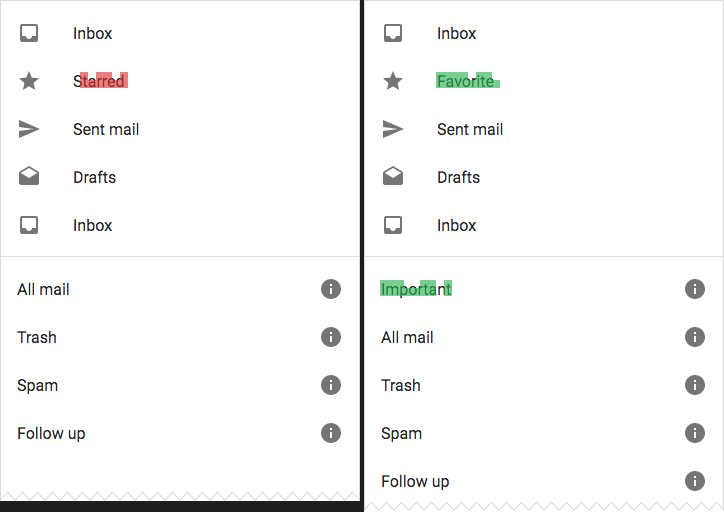
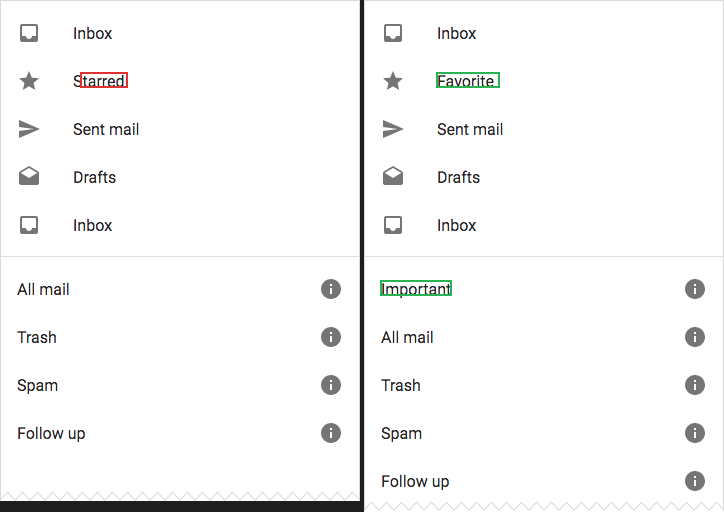
refactor(render): per-region outline / filled highlights
Replaces the per-block translucent tile overlay with clean per-region
rectangles. Two styles are exposed:

- Outline (default): just the bounding-box stroke; content stays
  readable for review (--style outline --stroke 2).
- Filled: solid color over the whole region; high visibility, hides
  content (--style filled).

The renderer now clusters via the same `unmatched_regions(merge_gap,
min_blocks)` the JSON output uses, so the visual rectangles and the
machine-readable rectangles are always in sync. RenderOptions gained
`style`, `merge_gap`, and `min_blocks` fields; the old `overlay_alpha`
was removed. The CLI's now-redundant `--regions` flag (which double-
stroked an outline on top of the tile overlay) is gone — outlines are
the default.

Sample images regenerated; README updated to show both styles side
by side.

Changed region(s): [[0.5166, 0.5312, 0.6381, 0.5938], [0.6077, 0.125, 0.6989, 0.1875], [0.0912, 0.125, 0.1823, 0.1875]]

diff --git a/src/render.rs b/src/render.rs
@@ -100,10 +100,32 @@ pub fn draw_regions(img: &mut RgbaImage, regions: &[Region], color: [u8; 4]) {
     }
 }
 
+/// How unmatched regions are highlighted on top of the reference / target.
+#[derive(Debug, Clone, Copy, PartialEq, Eq)]
+pub enum HighlightStyle {
+    /// Draw only the bounding-box outline of each region (`stroke` pixels
+    /// wide). Underlying content stays visible — recommended for review
+    /// workflows.
+    Outline { stroke: u32 },
+    /// Fill the region's bounding box with the highlight color (no
+    /// transparency). High visibility but obscures content.
+    Filled,
+}
+
+impl Default for HighlightStyle {
+    fn default() -> Self {
+        HighlightStyle::Outline { stroke: 2 }
+    }
+}
+
 #[derive(Debug, Clone)]
 pub struct RenderOptions {
-    /// Alpha (0..=255) used when blending the red overlay onto unmatched blocks.
-    pub overlay_alpha: u8,
+    /// How to highlight unmatched regions.
+    pub style: HighlightStyle,
+    /// Passed to `BlockMatchResult::unmatched_regions` when clustering.
+    pub merge_gap: u32,
+    /// Passed to `BlockMatchResult::unmatched_regions` when clustering.
+    pub min_blocks: u32,
     /// If true, draw a small arrow on each block showing its motion vector.
     pub draw_vectors: bool,
 }
@@ -111,15 +133,17 @@ pub struct RenderOptions {
 impl Default for RenderOptions {
     fn default() -> Self {
         Self {
-            overlay_alpha: 160,
+            style: HighlightStyle::default(),
+            merge_gap: 1,
+            min_blocks: 1,
             draw_vectors: false,
         }
     }
 }
 
-/// Renders a diff visualization by overlaying `color` on blocks that could
-/// not be matched (i.e. genuine content differences after accounting for X/Y
-/// shifts).
+/// Renders a diff visualization by clustering unmatched blocks into
+/// regions and drawing each region's bounding box in `color` according to
+/// `opts.style`.
 pub fn render_diff(
     base: &RgbaImage,
     result: &BlockMatchResult,
@@ -127,45 +151,61 @@ pub fn render_diff(
     opts: &RenderOptions,
 ) -> RgbaImage {
     let mut out = base.clone();
-    overlay_unmatched(&mut out, result, color, opts.overlay_alpha);
+    let regions = result.unmatched_regions(opts.merge_gap, opts.min_blocks);
+    paint_regions(&mut out, &regions, color, opts.style);
     if opts.draw_vectors {
         draw_vectors(&mut out, result);
     }
     out
 }
 
-fn overlay_unmatched(
+fn paint_regions(
     img: &mut RgbaImage,
-    result: &BlockMatchResult,
+    regions: &[Region],
     color: [u8; 3],
-    alpha: u8,
+    style: HighlightStyle,
 ) {
-    let b = result.block_size;
-    let a = alpha as u16;
-    let inv = 255u16 - a;
     let (w, h) = (img.width(), img.height());
-    for by in 0..result.rows {
-        for bx in 0..result.cols {
-            let mv = result.get(bx, by);
-            if mv.matched {
-                continue;
-            }
-            let x0 = bx * b;
-            let y0 = by * b;
-            for j in 0..b {
-                let y = y0 + j;
-                if y >= h {
-                    break;
-                }
-                for i in 0..b {
-                    let x = x0 + i;
-                    if x >= w {
-                        break;
+    let c = Rgba([color[0], color[1], color[2], 255]);
+    for r in regions {
+        let x1 = r.x.min(w);
+        let y1 = r.y.min(h);
+        let x2 = (r.x + r.width).min(w);
+        let y2 = (r.y + r.height).min(h);
+        if x2 <= x1 || y2 <= y1 {
+            continue;
+        }
+        match style {
+            HighlightStyle::Filled => {
+                for y in y1..y2 {
+                    for x in x1..x2 {
+                        img.put_pixel(x, y, c);
                     }
-                    let px = img.get_pixel_mut(x, y);
-                    px.0[0] = ((color[0] as u16 * a + px.0[0] as u16 * inv) / 255) as u8;
-                    px.0[1] = ((color[1] as u16 * a + px.0[1] as u16 * inv) / 255) as u8;
-                    px.0[2] = ((color[2] as u16 * a + px.0[2] as u16 * inv) / 255) as u8;
+                }
+            }
+            HighlightStyle::Outline { stroke } => {
+                let s = stroke.max(1);
+                // Top + bottom bands.
+                for y in y1..(y1 + s).min(y2) {
+                    for x in x1..x2 {
+                        img.put_pixel(x, y, c);
+                    }
+                }
+                for y in y2.saturating_sub(s).max(y1)..y2 {
+                    for x in x1..x2 {
+                        img.put_pixel(x, y, c);
+                    }
+                }
+                // Left + right bands (skip rows already drawn above).
+                let inner_y1 = (y1 + s).min(y2);
+                let inner_y2 = y2.saturating_sub(s).max(inner_y1);
+                for y in inner_y1..inner_y2 {
+                    for x in x1..(x1 + s).min(x2) {
+                        img.put_pixel(x, y, c);
+                    }
+                    for x in x2.saturating_sub(s).max(x1)..x2 {
+                        img.put_pixel(x, y, c);
+                    }
                 }
             }
         }
@@ -173,19 +213,22 @@ fn overlay_unmatched(
 }
 
 /// Renders a side-by-side composite of the bidirectional diff: the reference
-/// on the left with "removed" content overlaid in red, and the target on the
-/// right with "added" content overlaid in green. A thin separator is drawn
-/// between the two panels.
+/// on the left with "removed" regions in red, and the target on the right
+/// with "added" regions in green, each drawn in the configured highlight
+/// style. A thin separator is drawn between the two panels.
 pub fn render_bidirectional(
     reference: &RgbaImage,
     target: &RgbaImage,
     diff: &BidirectionalDiff,
     opts: &RenderOptions,
 ) -> RgbaImage {
+    let removed = diff.forward.unmatched_regions(opts.merge_gap, opts.min_blocks);
+    let added = diff.reverse.unmatched_regions(opts.merge_gap, opts.min_blocks);
+
     let mut left = reference.clone();
     let mut right = target.clone();
-    overlay_unmatched(&mut left, &diff.forward, [220, 50, 50], opts.overlay_alpha);
-    overlay_unmatched(&mut right, &diff.reverse, [40, 180, 80], opts.overlay_alpha);
+    paint_regions(&mut left, &removed, [220, 50, 50], opts.style);
+    paint_regions(&mut right, &added, [40, 180, 80], opts.style);
     if opts.draw_vectors {
         draw_vectors(&mut left, &diff.forward);
         draw_vectors(&mut right, &diff.reverse);

diff --git a/src/bin/img-block-match.rs b/src/bin/img-block-match.rs
@@ -1,7 +1,7 @@
 use clap::{Parser, ValueEnum};
 use img_block_match::{
-    diff, diff_bidirectional, draw_regions, render_bidirectional, render_diff, render_heatmap,
-    BlockMatchOptions, Region, RenderOptions, SearchMode,
+    diff, diff_bidirectional, render_bidirectional, render_diff, render_heatmap, BlockMatchOptions,
+    HighlightStyle, Region, RenderOptions, SearchMode,
 };
 use std::time::Instant;
 
@@ -12,6 +12,14 @@ enum CliMode {
     /// Hierarchical (coarse scan + logarithmic refinement) — orders of
     /// magnitude faster for wide search ranges.
     Fast,
+}
+
+#[derive(Copy, Clone, Debug, ValueEnum)]
+enum CliStyle {
+    /// Just the bounding-box outline; content stays readable.
+    Outline,
+    /// Solid fill over the entire region.
+    Filled,
 }
 
 impl From<CliMode> for SearchMode {
@@ -57,10 +65,12 @@ struct Args {
     /// Search strategy within the window.
     #[arg(long, value_enum, default_value_t = CliMode::Full)]
     mode: CliMode,
-    /// Draw bounding boxes around clustered unmatched regions on top of the
-    /// diff image.
-    #[arg(long, default_value_t = false)]
-    regions: bool,
+    /// Highlight style for unmatched regions.
+    #[arg(long, value_enum, default_value_t = CliStyle::Outline)]
+    style: CliStyle,
+    /// Outline stroke width in pixels (ignored when --style=filled).
+    #[arg(long, default_value_t = 2)]
+    stroke: u32,
     /// When merging adjacent unmatched blocks into regions, allow this many
     /// matched blocks of gap between them.
     #[arg(long, default_value_t = 1)]
@@ -122,8 +132,13 @@ fn main() -> Result<(), Box<dyn std::error::Error>> {
         compute_confidence: args.confidence,
     };
     let render_opts = RenderOptions {
+        style: match args.style {
+            CliStyle::Outline => HighlightStyle::Outline { stroke: args.stroke },
+            CliStyle::Filled => HighlightStyle::Filled,
+        },
+        merge_gap: args.merge_gap,
+        min_blocks: args.min_blocks,
         draw_vectors: args.draw_vectors,
-        ..Default::default()
     };
 
     let t = Instant::now();
@@ -155,10 +170,7 @@ fn main() -> Result<(), Box<dyn std::error::Error>> {
         );
         let regions = result.unmatched_regions(args.merge_gap, args.min_blocks);
         eprintln!("regions: {}", regions.len());
-        let mut out = render_diff(&reference, &result, [220, 50, 50], &render_opts);
-        if args.regions {
-            draw_regions(&mut out, &regions, [200, 0, 0, 255]);
-        }
+        let out = render_diff(&reference, &result, [220, 50, 50], &render_opts);
         out.save(&args.output)?;
         if args.json {
             println!("{{\n{}\n}}", regions_to_json("changed", &regions));
@@ -188,17 +200,7 @@ fn main() -> Result<(), Box<dyn std::error::Error>> {
             added.len(),
         );
         eprintln!("elapsed: {:?}", elapsed);
-        let mut out = render_bidirectional(&reference, &target, &bd, &render_opts);
-        if args.regions {
-            // The right panel is offset by left.width() + 4 (gap).
-            let mut right_regions = added.clone();
-            let x_off = reference.width() + 4;
-            for r in &mut right_regions {
-                r.x += x_off;
-            }
-            draw_regions(&mut out, &removed, [200, 0, 0, 255]);
-            draw_regions(&mut out, &right_regions, [0, 160, 60, 255]);
-        }
+        let out = render_bidirectional(&reference, &target, &bd, &render_opts);
         out.save(&args.output)?;
         if args.json {
             println!(

diff --git a/src/lib.rs b/src/lib.rs
@@ -25,5 +25,6 @@ pub use block_match::{
 };
 pub use pyramid::diff_pyramid;
 pub use render::{
-    draw_regions, render_bidirectional, render_diff, render_heatmap, RenderOptions,
+    draw_regions, render_bidirectional, render_diff, render_heatmap, HighlightStyle,
+    RenderOptions,
 };

diff --git a/README.md b/README.md
@@ -36,15 +36,23 @@ Naive pixel-wise diff (`--search-x 0 --search-y 0`):
 
 Block-matching diff (`--search-y 80 --mode fast`):
 
-![block-match menu diff](assets/diff-menu-block-match.png)
+![block-match menu diff (outline)](assets/diff-menu-block-match.png)
 
 > Left panel (red, removed): just `Starred`. Right panel (green, added):
 > `Favorite` and the newly inserted `Important` row. Everything else is
 > correctly recognized as "same content, just shifted".
 
+Two highlight styles are available — `outline` (default, content stays
+visible for review) and `filled` (solid blocks, highest visibility):
+
+| `--style outline` | `--style filled` |
+|:-:|:-:|
+| ![outline](assets/diff-menu-block-match.png) | ![filled](assets/diff-menu-filled.png) |
+
 ```sh
 cargo run --release -- assets/menu-before.png assets/menu-after.png \
     --search-x 16 --search-y 80 --block-size 8 --threshold 8 --mode fast \
+    --merge-gap 2 --min-blocks 2 \
     -o assets/diff-menu-block-match.png
 ```
 
@@ -178,14 +186,17 @@ cargo run --release -- expected.png actual.png \
 - `--draw-vectors` to draw motion vectors on top.
 - `--mode fast` for the hierarchical search (recommended once the search
   radius gets large).
+- `--style outline|filled` (default `outline`), `--stroke N` to tune the
+  outline thickness.
 
 ## Region clustering (for tooling)
 
 Raw block-level results are great for visualization but awkward to consume
 programmatically. `BlockMatchResult::unmatched_regions(merge_gap, min_blocks)`
 groups spatially-adjacent unmatched blocks into bounding rectangles via
-4-connected flood fill, with `merge_gap` blocks of dilation to bridge tight
-gaps and `min_blocks` to discard anti-aliasing noise.
+8-connected flood fill, with `merge_gap` blocks of dilation to bridge tight
+gaps and `min_blocks` to discard anti-aliasing noise. The renderer drives
+its highlight rectangles from this same clustering.
 
 ```rust
 let regions = result.unmatched_regions(/*merge_gap=*/ 2, /*min_blocks=*/ 2);
@@ -194,14 +205,14 @@ for r in regions {
 }
 ```
 
-CLI: `--regions` draws bounding boxes on the rendered image and `--json`
-emits region coordinates on stdout:
+CLI: `--json` emits region coordinates on stdout alongside the rendered
+image:
 
 ```sh
 $ img-block-match assets/menu-before.png assets/menu-after.png \
     --search-y 80 --block-size 8 --mode fast \
-    --regions --merge-gap 2 --min-blocks 2 --json \
-    -o assets/diff-menu-regions.png
+    --merge-gap 2 --min-blocks 2 --json \
+    -o diff.png
 {
     "removed": [
       {"x": 80, "y": 72, "width": 48, "height": 16, "blocks": 10}
@@ -212,8 +223,6 @@ $ img-block-match assets/menu-before.png assets/menu-after.png \
     ]
 }
 ```
-
-![regions](assets/diff-menu-regions.png)
 
 ## Pyramid mode (experimental)
 